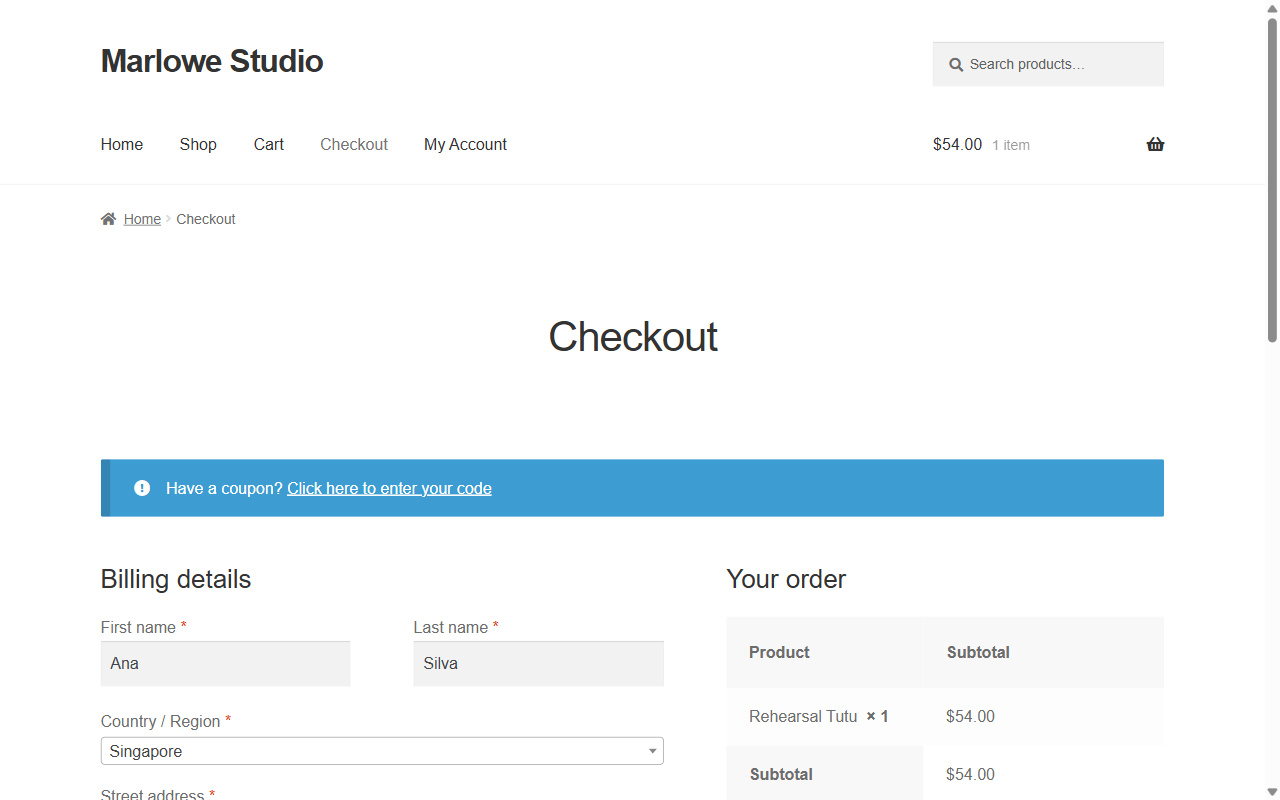
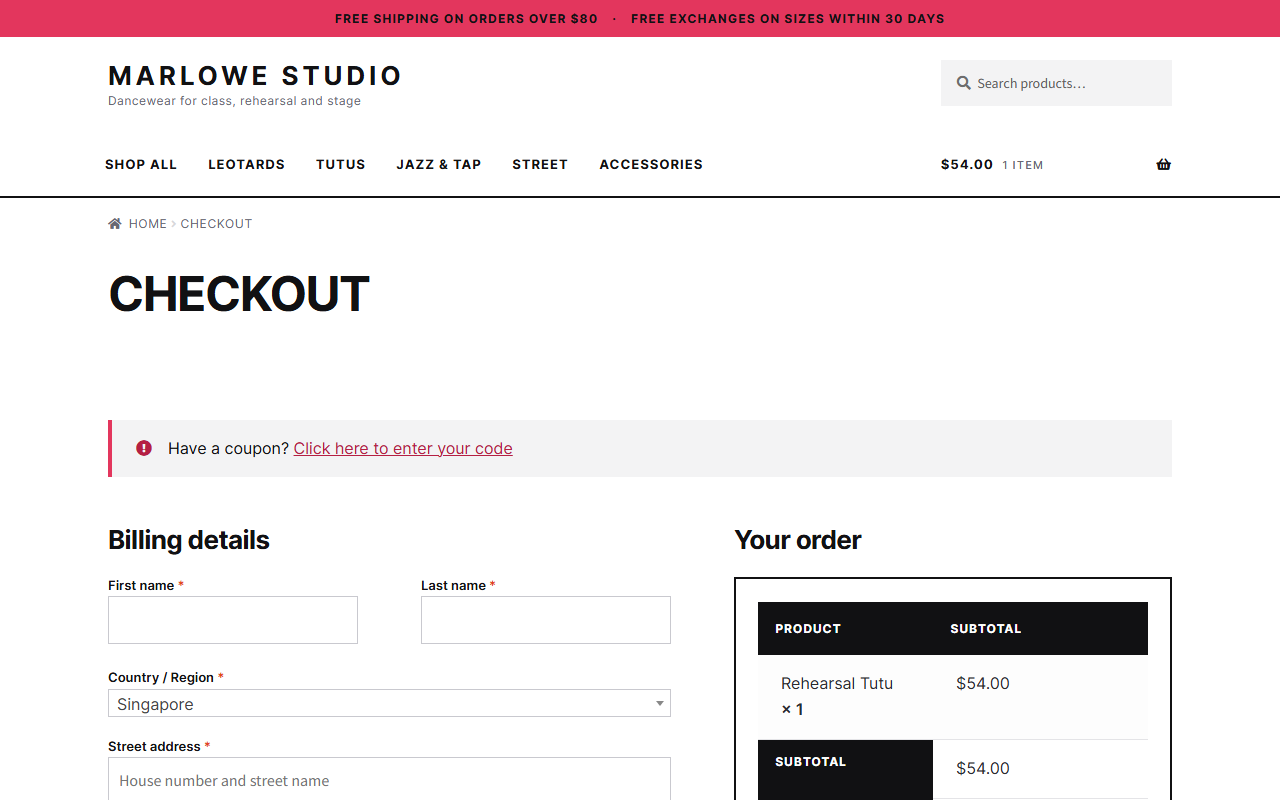
Marlowe: estudo de caso em inglês com a loja redesenhada
- marlowe-store/index.html reescrito em inglês no visual do portfólio,
  com página inicial, produto, checkout e celular; sem o link para 127.0.0.1:8080
- Capturas novas da loja (tema filho próprio, página de vendas e ilustrações)
- Caso 03 do índice com imagem e texto atualizados

diff --git a/marlowe-store/index.html b/marlowe-store/index.html
@@ -1,94 +1,115 @@
 <!DOCTYPE html>
-<html lang="pt-PT">
+<html lang="en">
 <head>
 <meta charset="UTF-8">
 <meta name="viewport" content="width=device-width, initial-scale=1.0">
-<title>Marlowe Studio — Loja WooCommerce</title>
+<title>Marlowe Studio — WooCommerce store case study</title>
+<meta name="description" content="Case study: a dancewear store on WordPress and WooCommerce with a custom Storefront child theme, a sales homepage and a tested checkout.">
+<meta name="theme-color" content="#0b0f1a">
 <style>
-@font-face{font-family:'Inter';font-style:normal;font-weight:400;font-display:swap;src:url('../fonts/inter-400.woff2') format('woff2')}
-@font-face{font-family:'Inter';font-style:normal;font-weight:500;font-display:swap;src:url('../fonts/inter-500.woff2') format('woff2')}
-@font-face{font-family:'Inter';font-style:normal;font-weight:600;font-display:swap;src:url('../fonts/inter-600.woff2') format('woff2')}
-@font-face{font-family:'Playfair Display';font-style:normal;font-weight:400;font-display:swap;src:url('../fonts/playfair-400.woff2') format('woff2')}
-@font-face{font-family:'Playfair Display';font-style:italic;font-weight:400;font-display:swap;src:url('../fonts/playfair-400.woff2') format('woff2')}
-:root{--bg:#0a0b0f;--surface:#12141b;--ink:#f2f0eb;--muted:#8b8f9c;--amber:#f5a623;--line:rgba(255,255,255,.08);--serif:'Playfair Display',Georgia,serif;--sans:'Inter',system-ui,sans-serif}
+@font-face{font-family:'Inter';font-weight:400;font-display:swap;src:url('../fonts/inter-400.woff2') format('woff2')}
+@font-face{font-family:'Inter';font-weight:500;font-display:swap;src:url('../fonts/inter-500.woff2') format('woff2')}
+@font-face{font-family:'Inter';font-weight:600;font-display:swap;src:url('../fonts/inter-600.woff2') format('woff2')}
+@font-face{font-family:'Inter';font-weight:700;font-display:swap;src:url('../fonts/inter-700.woff2') format('woff2')}
+/* same brand as the portfolio index */
+:root{--bg:#0b0f1a;--surface:#121a2c;--ink:#eef1f6;--muted:#a2abbd;--muted-2:#8790a3;--mint:#5eead4;--amber:#f2a65a;--line:rgba(238,241,246,.09);--sans:'Inter',system-ui,-apple-system,'Segoe UI',sans-serif;--mono:ui-monospace,'Cascadia Code','Consolas',monospace}
 *{margin:0;padding:0;box-sizing:border-box}
+html{color-scheme:dark}
 body{background:var(--bg);color:var(--ink);font-family:var(--sans);line-height:1.6;-webkit-font-smoothing:antialiased}
-.wrap{max-width:1080px;margin:0 auto;padding:56px 28px 96px}
-a.back{color:var(--muted);text-decoration:none;font-size:11.5px;letter-spacing:.14em;text-transform:uppercase;display:inline-block;margin-bottom:48px}
-a.back:hover{color:var(--ink)}
-.eyebrow{font-size:11px;letter-spacing:.26em;text-transform:uppercase;color:var(--amber);font-weight:600;margin-bottom:20px}
-h1{font-family:var(--serif);font-weight:400;font-size:clamp(34px,5vw,56px);line-height:1.05;letter-spacing:-.02em;margin-bottom:20px}
-.lede{font-size:16.5px;line-height:1.72;color:var(--muted);max-width:600px;margin-bottom:40px}
-.cta{display:inline-flex;align-items:center;gap:10px;background:var(--amber);color:#0b0b0d;font-weight:600;font-size:12px;letter-spacing:.12em;text-transform:uppercase;padding:15px 28px;border-radius:2px;text-decoration:none;transition:transform .3s,background .3s}
-.cta:hover{transform:translateY(-2px);background:#ffc76b}
-.grid{display:grid;grid-template-columns:repeat(3,1fr);gap:12px;margin:52px 0 0}
-.stat{background:var(--surface);border:1px solid var(--line);border-radius:4px;padding:22px}
-.stat .n{font-family:var(--serif);font-size:30px;color:var(--amber);line-height:1}
-.stat .l{font-size:10.5px;letter-spacing:.16em;text-transform:uppercase;color:var(--muted);margin-top:9px}
-h2{font-family:var(--serif);font-weight:400;font-size:24px;margin:60px 0 20px}
-figure{margin:0 0 22px;border:1px solid var(--line);border-radius:6px;overflow:hidden;background:var(--surface)}
-figure img{display:block;width:100%;height:auto}
-figcaption{padding:14px 18px;font-size:12.5px;color:var(--muted);border-top:1px solid var(--line)}
-figcaption b{color:var(--ink);font-weight:500}
-ul{list-style:none}
-li{padding:11px 0;border-bottom:1px solid rgba(255,255,255,.04);font-size:14.5px;color:var(--muted);display:flex;gap:14px}
-li b{color:var(--ink);font-weight:500;min-width:145px;flex-shrink:0}
-.note{background:rgba(245,166,35,.06);border-left:2px solid var(--amber);padding:20px 22px;margin-top:48px;font-size:14px;line-height:1.68;color:var(--muted)}
+a{color:inherit}
+a:focus-visible{outline:2px solid var(--mint);outline-offset:3px;border-radius:6px}
+img{display:block;max-width:100%;height:auto}
+.wrap{max-width:1080px;margin:0 auto;padding:40px 28px 96px}
+.back{display:inline-flex;gap:8px;color:var(--muted);text-decoration:none;font-size:14px;margin-bottom:48px}
+.back:hover{color:var(--ink)}
+.kicker{font-family:var(--mono);font-size:13px;color:var(--mint);margin-bottom:16px}
+h1{font-size:clamp(34px,5vw,54px);line-height:1.06;letter-spacing:-.035em;font-weight:700;margin-bottom:18px;max-width:16ch;text-wrap:balance}
+.lede{font-size:17.5px;color:var(--muted);max-width:640px;margin-bottom:36px}
+.stats{display:grid;grid-template-columns:repeat(4,minmax(0,1fr));border:1px solid var(--line);border-radius:14px;overflow:hidden;margin-bottom:56px}
+.stats div{padding:20px 22px;border-left:1px solid var(--line)}
+.stats div:first-child{border-left:0}
+.stats b{display:block;font-size:28px;letter-spacing:-.03em}
+.stats span{font-size:13px;color:var(--muted-2)}
+h2{font-size:24px;letter-spacing:-.02em;margin:64px 0 18px}
+figure{border:1px solid var(--line);border-radius:14px;overflow:hidden;background:var(--surface);min-width:0}
+figcaption{padding:14px 18px;font-size:14px;color:var(--muted);border-top:1px solid var(--line)}
+figcaption b{color:var(--ink);font-weight:600}
+.shots{display:grid;grid-template-columns:minmax(0,1fr) minmax(0,1fr);gap:18px}
+.shots .wide{grid-column:1/-1}
+.pair{display:grid;grid-template-columns:minmax(0,1fr) 260px;gap:18px;align-items:start}
+.list{list-style:none;border-top:1px solid var(--line)}
+.list li{display:grid;grid-template-columns:170px minmax(0,1fr);gap:18px;padding:13px 0;border-bottom:1px solid var(--line);font-size:15px;color:var(--muted)}
+.list b{color:var(--ink);font-weight:600}
+.stack{font-family:var(--mono);font-size:13px;color:var(--muted-2);margin-top:18px}
+.note{margin-top:56px;padding:20px 22px;border-left:2px solid var(--amber);background:rgba(242,166,90,.06);border-radius:0 10px 10px 0;font-size:14.5px;color:var(--muted)}
 .note strong{color:var(--ink)}
-@media(max-width:760px){.grid{grid-template-columns:1fr}li{flex-direction:column;gap:2px}li b{min-width:0}}
+@media(max-width:760px){
+  .stats{grid-template-columns:repeat(2,minmax(0,1fr))}
+  .stats div:nth-child(3){border-left:0}
+  .stats div:nth-child(n+3){border-top:1px solid var(--line)}
+  .shots,.pair{grid-template-columns:minmax(0,1fr)}
+  .pair figure:last-child{max-width:300px}
+  .list li{grid-template-columns:minmax(0,1fr);gap:2px}
+}
 </style>
 </head>
 <body>
-<div class="wrap">
-<a class="back" href="../index.html">← Portfólio</a>
+<main class="wrap">
+  <a class="back" href="../index.html#work"><span aria-hidden="true">←</span> Back to the portfolio</a>
 
-<div class="eyebrow">WooCommerce · WordPress · PHP</div>
-<h1>Marlowe Studio</h1>
-<p class="lede">Loja de vestuário de dança construída sobre WordPress e WooCommerce. Catálogo completo, variantes de tamanho e cor, carrinho, checkout com transferência bancária — e uma encomenda processada de ponta a ponta.</p>
+  <p class="kicker">03 · E-commerce</p>
+  <h1>Marlowe Studio, a dancewear store on WooCommerce</h1>
+  <p class="lede">A complete shop the owner can run on their own: catalogue with sizes and colours, cart, checkout and orders. It runs on WordPress with a custom Storefront child theme, so the look is the brand's and the shop stays standard WooCommerce underneath.</p>
 
-<div class="grid">
-  <div class="stat"><div class="n">20</div><div class="l">Produtos</div></div>
-  <div class="stat"><div class="n">12</div><div class="l">Categorias</div></div>
-  <div class="stat"><div class="n">79</div><div class="l">Variações</div></div>
-</div>
+  <div class="stats" aria-label="Store in numbers">
+    <div><b>20</b><span>products</span></div>
+    <div><b>12</b><span>categories</span></div>
+    <div><b>79</b><span>size &amp; colour variations</span></div>
+    <div><b>#150</b><span>order placed end to end</span></div>
+  </div>
 
-<h2>A loja a funcionar</h2>
+  <h2>The store</h2>
+  <div class="shots">
+    <figure class="wide">
+      <img src="../thumbs/store-shop.png" width="1280" height="800" alt="Marlowe Studio homepage: a raspberry hero reading Made to move, with four products and a black service band" loading="lazy">
+      <figcaption><b>Homepage.</b> A sales page instead of a blog: headline, four best-known products with price, delivery and exchange promises, then categories, new arrivals and favourites.</figcaption>
+    </figure>
+    <figure>
+      <img src="../thumbs/store-product.png" width="1280" height="800" alt="Product page for the Classic Ballet Leotard with size and colour selected and stock shown" loading="lazy">
+      <figcaption><b>Product.</b> Size and colour pick a real variation, with its own stock count.</figcaption>
+    </figure>
+    <figure>
+      <img src="../thumbs/store-checkout.png" width="1280" height="800" alt="Checkout page with billing details and the order summary" loading="lazy">
+      <figcaption><b>Checkout.</b> Billing form, order summary and two payment methods.</figcaption>
+    </figure>
+  </div>
 
-<figure>
-  <img src="../thumbs/store-shop.png" alt="Grelha de produtos da loja Marlowe Studio" loading="lazy">
-  <figcaption><b>Catálogo.</b> 20 produtos em 12 categorias, com preços, imagens e botões de compra. Paginação e ordenação funcionais.</figcaption>
-</figure>
+  <h2>On a phone</h2>
+  <div class="pair">
+    <ul class="list">
+      <li><b>Layout</b>The hero stacks, products sit two to a row like a fashion catalogue, and the cart, search and account live in a bar at the bottom of the screen.</li>
+      <li><b>Checked</b>Homepage, shop, product, cart and checkout at 375 px and 1280 px: no sideways scrolling and no console errors.</li>
+    </ul>
+    <figure>
+      <img src="../thumbs/store-mobile.png" width="390" height="844" alt="Marlowe Studio homepage on a phone" loading="lazy">
+    </figure>
+  </div>
 
-<figure>
-  <img src="../thumbs/store-checkout.png" alt="Checkout com formulário de faturação e resumo do pedido" loading="lazy">
-  <figcaption><b>Checkout.</b> Formulário de faturação, resumo do pedido com subtotal, e dois métodos de pagamento configurados.</figcaption>
-</figure>
+  <h2>What was built</h2>
+  <ul class="list">
+    <li><b>Catalogue</b>20 products with a unique SKU, price and image each, in 12 categories</li>
+    <li><b>Variations</b>79 size and colour variations generated from WooCommerce attributes</li>
+    <li><b>Theme</b>A Storefront child theme: brand type and colour, a sales homepage, a service band, category tiles and a footer with the shop's own links</li>
+    <li><b>Product images</b>One illustration per product, drawn in SVG and rendered to PNG so every image shares the same framing and light</li>
+    <li><b>Copy</b>Short and long descriptions for every product, with fabric and care notes</li>
+    <li><b>Checkout</b>Field validation, direct bank transfer with instructions, and cash on delivery</li>
+    <li><b>Orders</b>Order #150 placed from cart to "order received", with its number generated</li>
+  </ul>
+  <p class="stack">WordPress 7.1.3 · WooCommerce 11.2.1 · Storefront child theme · PHP · CSS</p>
 
-<a class="cta" href="http://127.0.0.1:8080/shop/" target="_blank" rel="noopener">Abrir a loja ao vivo →</a>
-
-<h2>O que foi implementado</h2>
-<ul>
-  <li><b>Catálogo</b>20 produtos com SKU único, preço em USD e imagem em todos</li>
-  <li><b>Variantes</b>79 variações de tamanho e cor geradas por atributos do WooCommerce</li>
-  <li><b>Categorias</b>12 categorias hierárquicas, com menu e filtros</li>
-  <li><b>Carrinho</b>Shortcode clássico, contador no cabeçalho, cálculo de totais</li>
-  <li><b>Checkout</b>Validação de campos e dois métodos de pagamento</li>
-  <li><b>Pagamentos</b>Transferência bancária com instruções, e pagamento na entrega</li>
-  <li><b>Encomendas</b>Pedido #150 processado de ponta a ponta com número gerado</li>
-  <li><b>Tema</b>Storefront, o tema oficial do WooCommerce</li>
-</ul>
-
-<h2>Nota técnica</h2>
-<ul>
-  <li><b>Base de dados</b>SQLite em desenvolvimento (produção usaria MySQL)</li>
-  <li><b>Pagamentos</b>Em modo de teste — nenhum cartão real é processado</li>
-  <li><b>Imagens</b>Placeholders gerados por script, não fotografias de produto</li>
-</ul>
-
-<div class="note">
-<strong>Demonstração conceptual.</strong> A marca, os produtos, os preços e os dados de clientes são fictícios e foram criados para demonstrar a implementação técnica. O link ao vivo aponta para um servidor local — disponível apenas enquanto estiver a correr.
-</div>
-
-</div>
+  <div class="note">
+    <strong>Self-initiated sample.</strong> The brand, products, prices, store policies and customer data are fictional. The store runs on a local server with SQLite (a live shop would use MySQL), payments are in test mode, and the product images are illustrations, not photographs.
+  </div>
+</main>
 </body>
 </html>

diff --git a/index.html b/index.html
@@ -321,19 +321,19 @@ footer{display:flex;justify-content:space-between;gap:16px;padding:18px 0 48px;f
 
     <article class="case">
       <a class="case-media" href="./marlowe-store/" aria-label="Open the Marlowe Studio store">
-        <img src="./thumbs/store-shop.png" width="1280" height="800" alt="Marlowe Studio WooCommerce shop page" loading="lazy">
+        <img src="./thumbs/store-shop.png" width="1280" height="800" alt="Marlowe Studio homepage: a raspberry hero reading Made to move, with four products" loading="lazy">
       </a>
       <div>
         <div class="case-num">03 · E-commerce</div>
         <h3>Marlowe Studio, a complete WooCommerce store</h3>
-        <p>A clothing shop the owner can run on their own: catalogue, variations, cart and checkout, with orders processed from start to finish.</p>
+        <p>A dancewear shop the owner can run on their own: catalogue, variations, cart and checkout, with orders processed from start to finish.</p>
         <ul class="built">
           <li>20 products across 12 categories, with 79 size and colour variations</li>
-          <li>Cart and checkout with bank transfer, tested with real orders</li>
-          <li>Built on WordPress, so the client edits products without a developer</li>
+          <li>A Storefront child theme with a sales homepage and one illustration per product</li>
+          <li>Checkout with bank transfer and cash on delivery, tested with a full order</li>
         </ul>
         <div class="results"><span>20 products</span><span>79 variations</span><span>Checkout end to end</span></div>
-        <div class="stack">WordPress · WooCommerce · PHP · CSS</div>
+        <div class="stack">WordPress · WooCommerce · Storefront child theme · PHP · CSS</div>
         <a class="link" href="./marlowe-store/">Open live demo <span aria-hidden="true">→</span></a>
       </div>
     </article>
